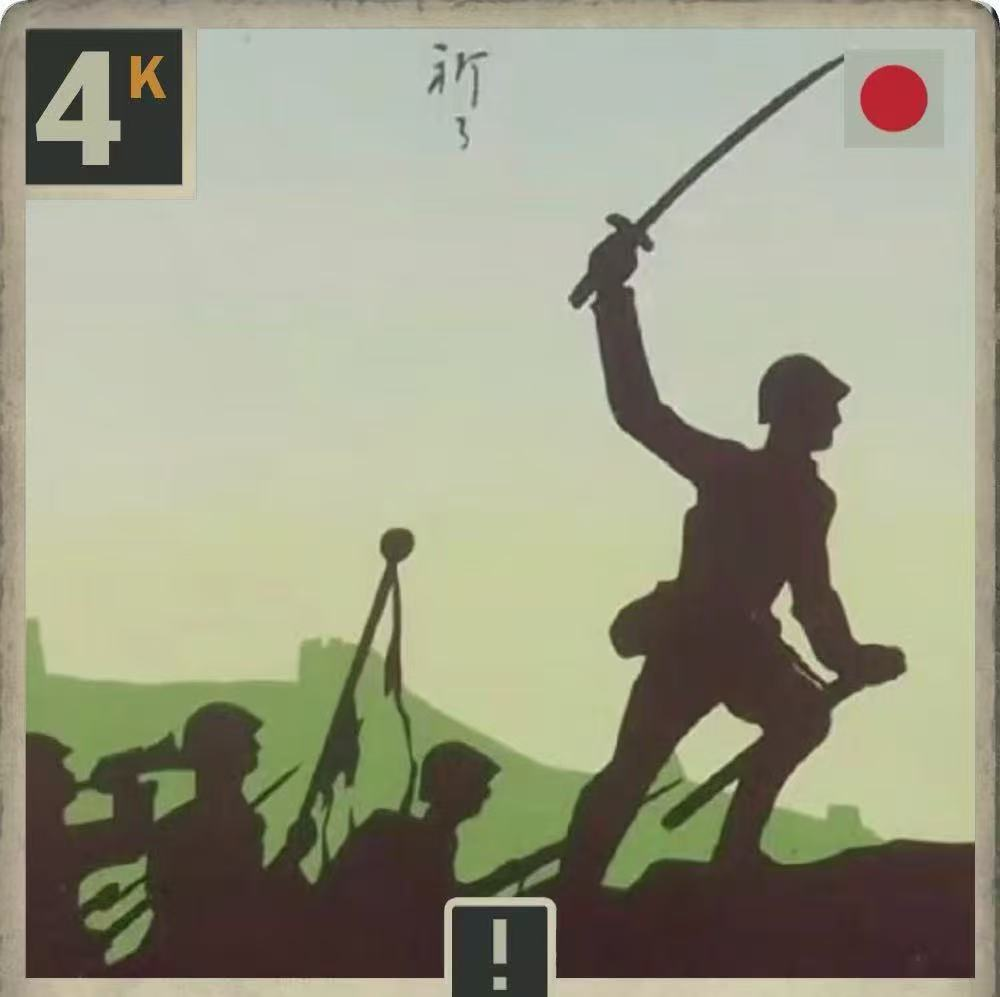
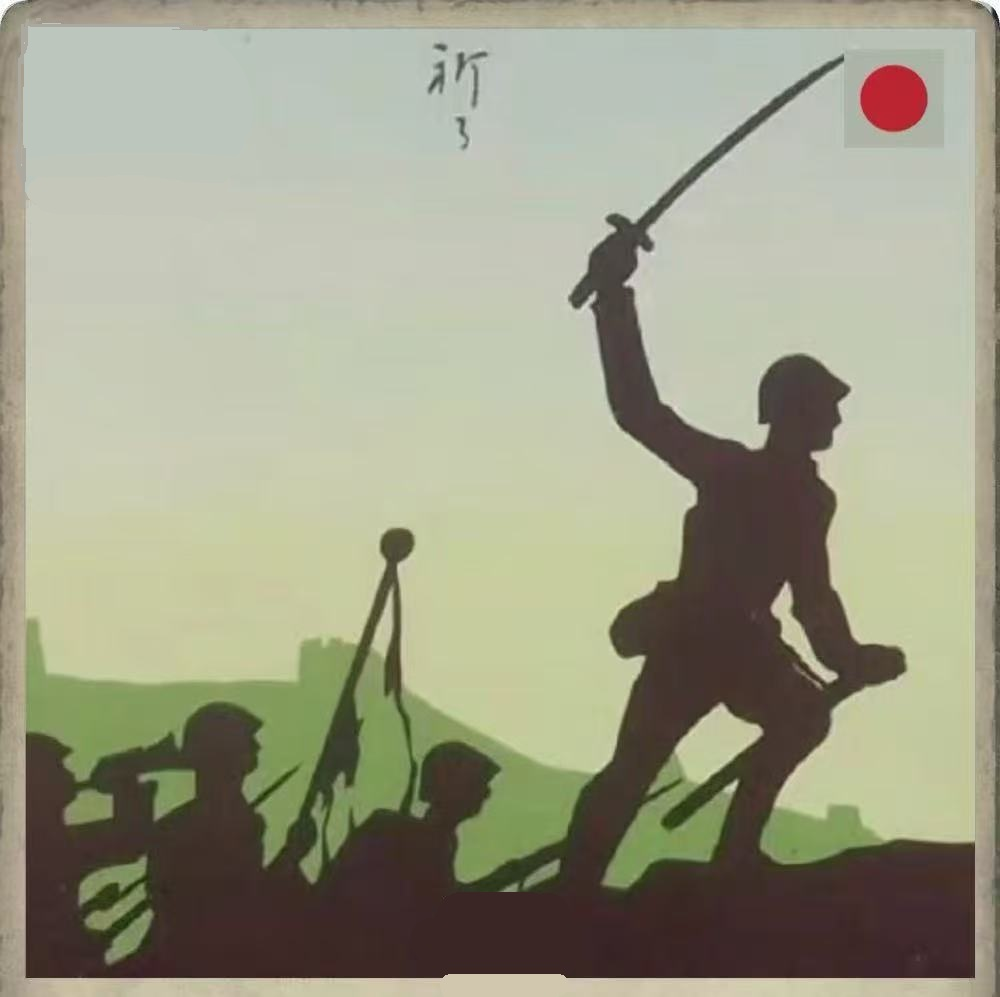
侦察兵改图(png)；修复全览卡牌计数(92→96张)；添加返回游戏/返回顶部/点击跳转提示

Changed region(s): [[0.0, 0.0, 0.217, 0.2177], [0.434, 0.8706, 0.558, 1.0]]

diff --git a/KARDS_卡牌全览.html b/KARDS_卡牌全览.html
@@ -115,6 +115,9 @@ hr{border:none;border-top:1px solid #2a2d3a;margin:20px 0}
 
 <h1>KARDS 卡牌全览</h1>
 
+<div style="text-align:center;margin-bottom:16px"><a href="index.html" style="color:#4fc3f7;text-decoration:none;font-size:.82rem;font-weight:700;border:1px solid #4fc3f7;padding:4px 14px;border-radius:16px;transition:all .2s" onmouseover="this.style.background='rgba(79,195,247,.15)'" onmouseout="this.style.background='none'">← 返回游戏</a></div>
+
+<button id="top-btn" title="返回顶部" onclick="window.scrollTo({top:0,behavior:'smooth'})" style="position:fixed;bottom:60px;right:20px;padding:8px 14px;border-radius:20px;background:#333;color:#ccc;border:none;font-size:.7rem;font-weight:900;cursor:pointer;box-shadow:0 4px 16px rgba(0,0,0,.5);z-index:999;transition:transform .15s" onmouseover="this.style.transform='scale(1.1)'" onmouseout="this.style.transform='scale(1)'">↑ 顶部</button>
 <button id="kw-btn" title="战斗手册" onclick="document.getElementById('kw-modal').classList.add('show')">战斗手册</button>
 
 <!-- 上限分级图例 -->
@@ -127,26 +130,26 @@ hr{border:none;border-top:1px solid #2a2d3a;margin:20px 0}
 
 <!-- 阵营设计理念 -->
 <div class="design">
-  <div class="design-box" onclick="goTo('faction-D')"><div class="dn"><span class="tag D">&#x2716; 德军</span></div><div class="dn slogan">闪电战 · 重甲突袭</div><p>以闪击/重甲为骨架，特效强调<b>装甲滚雪球与反装甲突击</b>：击杀后膨胀、打击坦克与空军增伤、工兵拆除重甲。</p></div>
-  <div class="design-box" onclick="goTo('faction-S')"><div class="dn"><span class="tag S">&#x262D; 苏军</span></div><div class="dn slogan">人海 · 牺牲</div><p>以数量与自我牺牲为核心，特效强调<b>以弱搏强与亡计补员</b>：数量优势、阵亡加入补充兵、掩护回血。</p></div>
-  <div class="design-box" onclick="goTo('faction-U')"><div class="dn"><span class="tag U">&#x2605; 美军</span></div><div class="dn slogan">工业 · 量产</div><p>以资源与补充为主线，特效强调<b>工业补给与联合作战</b>：部署抽牌、阵亡补员、护航机增幅轰炸机。</p></div>
-  <div class="design-box" onclick="goTo('faction-B')"><div class="dn"><span class="tag B">&#x2694; 英军</span></div><div class="dn slogan">要塞 · 坚守</div><p>以守护与重甲为基石，特效强调<b>防御、回血与工事</b>：防护光环、总部回复、反坦克猎手、重型堡垒。</p></div>
-  <div class="design-box" onclick="goTo('faction-J')"><div class="dn"><span class="tag J">&#x2600; 日军</span></div><div class="dn slogan">速攻 · 玉碎</div><p>以低行动费与自毁为核心，特效强调<b>亡计伤害与快速突进</b>：阵亡惩罚、击杀连击、直伤总部。</p></div>
+  <div class="design-box" onclick="goTo('faction-D')" title="点击跳转到德军卡牌"><div class="dn"><span class="tag D">&#x2716; 德军</span></div><div class="dn slogan">闪电战 · 重甲突袭</div><p>以闪击/重甲为骨架，特效强调<b>装甲滚雪球与反装甲突击</b>：击杀后膨胀、打击坦克与空军增伤、工兵拆除重甲。</p></div>
+  <div class="design-box" onclick="goTo('faction-S')" title="点击跳转到苏军卡牌"><div class="dn"><span class="tag S">&#x262D; 苏军</span></div><div class="dn slogan">人海 · 牺牲</div><p>以数量与自我牺牲为核心，特效强调<b>以弱搏强与亡计补员</b>：数量优势、阵亡加入补充兵、掩护回血。</p></div>
+  <div class="design-box" onclick="goTo('faction-U')" title="点击跳转到美军卡牌"><div class="dn"><span class="tag U">&#x2605; 美军</span></div><div class="dn slogan">工业 · 量产</div><p>以资源与补充为主线，特效强调<b>工业补给与联合作战</b>：部署抽牌、阵亡补员、护航机增幅轰炸机。</p></div>
+  <div class="design-box" onclick="goTo('faction-B')" title="点击跳转到英军卡牌"><div class="dn"><span class="tag B">&#x2694; 英军</span></div><div class="dn slogan">要塞 · 坚守</div><p>以守护与重甲为基石，特效强调<b>防御、回血与工事</b>：防护光环、总部回复、反坦克猎手、重型堡垒。</p></div>
+  <div class="design-box" onclick="goTo('faction-J')" title="点击跳转到日军卡牌"><div class="dn"><span class="tag J">&#x2600; 日军</span></div><div class="dn slogan">速攻 · 玉碎</div><p>以低行动费与自毁为核心，特效强调<b>亡计伤害与快速突进</b>：阵亡惩罚、击杀连击、直伤总部。</p></div>
 </div>
 
 
 <div class="summary">
-  <div class="summary-card" onclick="goTo('faction-D')"><div class="s-name tag D">&#x2716; 德军</div><div class="s-total">17张</div><div class="s-detail">12单位 + 5指令</div></div>
-  <div class="summary-card" onclick="goTo('faction-S')"><div class="s-name tag S">&#x262D; 苏军</div><div class="s-total">20张</div><div class="s-detail">14单位 + 6指令</div></div>
-  <div class="summary-card" onclick="goTo('faction-U')"><div class="s-name tag U">&#x2605; 美军</div><div class="s-total">17张</div><div class="s-detail">12单位 + 5指令</div></div>
-  <div class="summary-card" onclick="goTo('faction-B')"><div class="s-name tag B">&#x2694; 英军</div><div class="s-total">20张</div><div class="s-detail">14单位 + 6指令</div></div>
-  <div class="summary-card" onclick="goTo('faction-J')"><div class="s-name tag J">&#x2600; 日军</div><div class="s-total">18张</div><div class="s-detail">12单位 + 6指令</div></div>
+  <div class="summary-card" onclick="goTo('faction-D')" title="点击跳转到德军卡牌"><div class="s-name tag D">&#x2716; 德军</div><div class="s-total">18张</div><div class="s-detail">12单位 + 6指令</div></div>
+  <div class="summary-card" onclick="goTo('faction-S')" title="点击跳转到苏军卡牌"><div class="s-name tag S">&#x262D; 苏军</div><div class="s-total">21张</div><div class="s-detail">14单位 + 7指令</div></div>
+  <div class="summary-card" onclick="goTo('faction-U')" title="点击跳转到美军卡牌"><div class="s-name tag U">&#x2605; 美军</div><div class="s-total">18张</div><div class="s-detail">12单位 + 6指令</div></div>
+  <div class="summary-card" onclick="goTo('faction-B')" title="点击跳转到英军卡牌"><div class="s-name tag B">&#x2694; 英军</div><div class="s-total">20张</div><div class="s-detail">14单位 + 6指令</div></div>
+  <div class="summary-card" onclick="goTo('faction-J')" title="点击跳转到日军卡牌"><div class="s-name tag J">&#x2600; 日军</div><div class="s-total">19张</div><div class="s-detail">12单位 + 7指令</div></div>
 </div>
 
 <!-- ================================================================ -->
 <!-- 德军 D -->
 <!-- ================================================================ -->
-<h2 id="faction-D"><span class="tag D">&#x2716; 德军</span> Wehrmacht — 闪击突击 <span style="font-size:.72rem;color:var(--d);margin-left:auto">单位 12 + 指令 5 = 17张</span></h2>
+<h2 id="faction-D"><span class="tag D">&#x2716; 德军</span> Wehrmacht — 闪击突击 <span style="font-size:.72rem;color:var(--d);margin-left:auto">单位 12 + 指令 6 = 18张</span></h2>
 
 <h3>单位</h3>
 <div class="tbl-wrapper">
@@ -214,7 +217,7 @@ hr{border:none;border-top:1px solid #2a2d3a;margin:20px 0}
 <!-- ================================================================ -->
 <!-- 苏军 S -->
 <!-- ================================================================ -->
-<h2 id="faction-S"><span class="tag S">&#x262D; 苏军</span> Soviet Union — 人海牺牲 <span style="font-size:.72rem;color:var(--d);margin-left:auto">单位 14 + 指令 6 = 20张</span></h2>
+<h2 id="faction-S"><span class="tag S">&#x262D; 苏军</span> Soviet Union — 人海牺牲 <span style="font-size:.72rem;color:var(--d);margin-left:auto">单位 14 + 指令 7 = 21张</span></h2>
 
 <h3>单位</h3>
 <div class="tbl-wrapper">
@@ -289,7 +292,7 @@ hr{border:none;border-top:1px solid #2a2d3a;margin:20px 0}
 <!-- ================================================================ -->
 <!-- 美军 U -->
 <!-- ================================================================ -->
-<h2 id="faction-U"><span class="tag U">&#x2605; 美军</span> United States — 工业跳费 <span style="font-size:.72rem;color:var(--d);margin-left:auto">单位 12 + 指令 5 = 17张</span></h2>
+<h2 id="faction-U"><span class="tag U">&#x2605; 美军</span> United States — 工业跳费 <span style="font-size:.72rem;color:var(--d);margin-left:auto">单位 12 + 指令 6 = 18张</span></h2>
 
 <h3>单位</h3>
 <div class="tbl-wrapper">
@@ -431,7 +434,7 @@ hr{border:none;border-top:1px solid #2a2d3a;margin:20px 0}
 <!-- ================================================================ -->
 <!-- 日军 J -->
 <!-- ================================================================ -->
-<h2 id="faction-J"><span class="tag J">&#x2600; 日军</span> Imperial Japan — 速攻玉碎 <span style="font-size:.72rem;color:var(--d);margin-left:auto">单位 12 + 指令 6 = 18张</span></h2>
+<h2 id="faction-J"><span class="tag J">&#x2600; 日军</span> Imperial Japan — 速攻玉碎 <span style="font-size:.72rem;color:var(--d);margin-left:auto">单位 12 + 指令 7 = 19张</span></h2>
 
 <h3>单位</h3>
 <div class="tbl-wrapper">
@@ -500,8 +503,8 @@ hr{border:none;border-top:1px solid #2a2d3a;margin:20px 0}
 
 <hr>
 <div style="text-align:center;color:var(--d);font-size:.72rem;margin-top:20px">
-  KARDS 卡牌全览 · 平衡版 &nbsp;|&nbsp; 总计 5 阵营 · <b>92 张</b>（64 单位 + 28 指令）<br>
-  同名上限分级：<b style="color:#e09060">1张 ×17</b> · <b style="color:#6cf">2张 ×34</b> · <b style="color:#fa8">3张 ×31</b> · <b style="color:var(--y)">4张 ×10</b>（合计 92）<br>
+  KARDS 卡牌全览 · 平衡版 &nbsp;|&nbsp; 总计 5 阵营 · <b>96 张</b>（64 单位 + 32 指令）<br>
+  同名上限分级：<b style="color:#e09060">1张 ×17</b> · <b style="color:#6cf">2张 ×34</b> · <b style="color:#fa8">3张 ×31</b> · <b style="color:var(--y)">4张 ×10</b>（合计 96）<br>
   本次为 <b style="color:var(--y)">30</b> 张纯词条单位补全「国家特性特效」，白板卡清零<br>
  生成于 GameEngine v2 · 截止 2026-09-29
 </div>
@@ -641,7 +644,7 @@ var IMG_MAP={
   'Jungle Raid':'images/Japan/丛林突袭.png',
   'Expansion':'images/Japan/扩张.jpg',
   'Recon Squad':'images/Japan/侦察队.jpg',
-  'Scout':'images/Japan/侦察兵.jpg'
+  'Scout':'images/Japan/侦察兵.png'
 };
 
 (function(){

diff --git a/index.html b/index.html
@@ -999,7 +999,7 @@ var IMG_MAP={
   'Jungle Raid':'images/Japan/丛林突袭.png',
   'Expansion':'images/Japan/扩张.jpg',
   'Recon Squad':'images/Japan/侦察队.jpg',
-  'Scout':'images/Japan/侦察兵.jpg'
+  'Scout':'images/Japan/侦察兵.png'
 };
 var UI={I:'\uD83E\uDE96',T:'\uD83D\uDEE1\uFE0F',A:'\uD83D\uDCA3',F:'\u2708\uFE0F',O:'\uD83D\uDE80',X:'\uD83D\uDCDC'};
 var UT_DESC={I:{sub:'地面单位 \u00B7 陆军',desc:'最基础的<b>陆军单位</b>，是卡组最常见的组成部分。',range:'仅相邻战线',move:'移动或攻击二选一',counter:'正常受反击',guard:'受守护影响'},T:{sub:'地面单位 \u00B7 装甲',desc:'高机动性的<b>陆军单位</b>，可在<b>同一回合中移动和攻击</b>，顺序不限。',range:'仅相邻战线',move:'可移动+攻击',counter:'正常受反击',guard:'受守护影响'},A:{sub:'地面单位 \u00B7 支援',desc:'支援阵线即可直接攻击任意战线。可<b>无视守护</b>，<b>不受反击也不造成反击</b>。',range:'任意战线',move:'移动或攻击二选一',counter:'不受反击',guard:'无视守护'},F:{sub:'空军单位 \u00B7 制空',desc:'<b>空军单位</b>，可向任意战线发起攻击。可<b>拦截同战线敌方轰炸机</b>。',range:'任意战线',move:'移动或攻击二选一',counter:'正常受反击',guard:'受守护影响'},O:{sub:'空军单位 \u00B7 轰炸',desc:'<b>空军单位</b>，可攻击任意战线。<b>无视守护</b>，<b>不受反击</b>（打战斗机除外）。',range:'任意战线',move:'移动或攻击二选一',counter:'不受反击*',guard:'无视守护'}};
